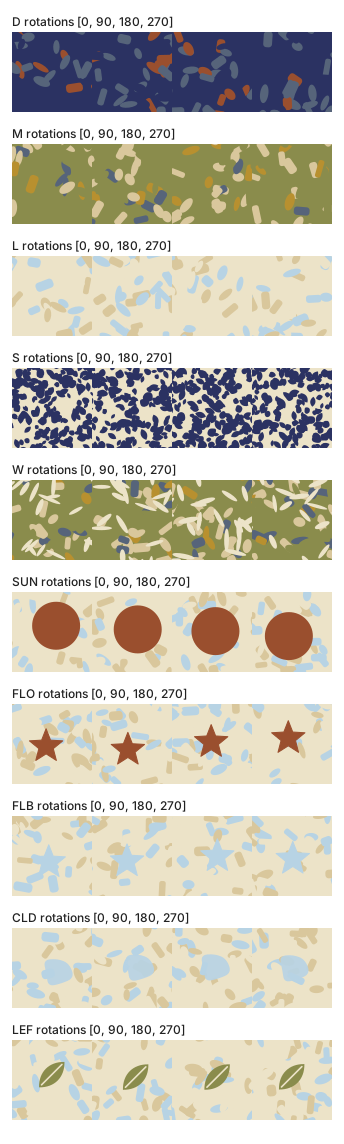
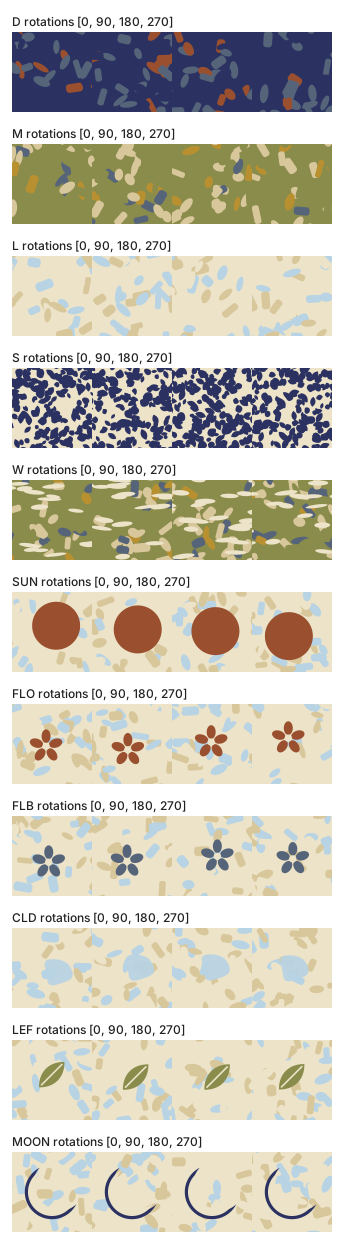
Add oriented dabs, flower and moon motifs; regenerate v4 spec
Claude-Session: https://claude.ai/code/session_01V7FKm6ieSF4AmKKv53YUgA

diff --git a/src/metapuzzle/textures.py b/src/metapuzzle/textures.py
@@ -170,16 +170,30 @@ def stipple(seed: int, size: float, palette: Sequence[str], *,
 
 def dabs(seed: int, size: float, palette: Sequence[str], *,
          count: float = 60.0, length: float = 0.10, width: float = 0.035,
-         shape: str = "mixed", background: bool = True) -> str:
-    """Short brush-like dabs at uniformly random angles.
+         shape: str = "mixed", background: bool = True,
+         angle: float | None = None, angle_jitter: float = 0.0) -> str:
+    """Short brush-like dabs at uniformly random angles, or at a common orientation.
 
     count: dabs per 100x100 units of cell area.
     length, width: nominal dab size as fractions of size (each varied 0.7-1.2x).
     shape: "rect" (rounded rectangle), "ellipse", or "mixed".
+    angle: None (default) for a random angle per dab. A number in degrees gives
+        every dab that angle, measured from the x axis, so 0 lays them horizontal.
+    angle_jitter: with ``angle``, each dab's angle is ``angle`` plus a uniform draw
+        from ``[-angle_jitter, angle_jitter]`` degrees. Needs ``angle``.
+    Positions, sizes, shapes and colours come from the same draws whatever the angle.
     """
     params = _key_args(locals())
     if shape not in ("rect", "ellipse", "mixed"):
         raise ValueError(f"shape must be 'rect', 'ellipse' or 'mixed', not {shape!r}")
+    if angle_jitter < 0.0:
+        raise ValueError("angle_jitter must be non-negative")
+    if angle is None and angle_jitter != 0.0:
+        raise ValueError("angle_jitter applies only when angle is given")
+    if angle is None:                       # keep the default key, so default output is unchanged
+        del params["angle"]
+    if angle_jitter == 0.0:
+        del params["angle_jitter"]
     base, marks = _split(palette)
     rng = random.Random(seed)
     pad = length * size
@@ -189,10 +203,14 @@ def dabs(seed: int, size: float, palette: Sequence[str], *,
         y = rng.uniform(-pad, size + pad)
         big = size * length * rng.uniform(0.7, 1.2)
         wide = min(size * width * rng.uniform(0.7, 1.2), big)
-        angle = rng.uniform(0.0, 360.0)
+        turn = rng.uniform(0.0, 360.0)      # drawn even when angle is fixed, so the stream is the same
+        if angle is None:
+            rot = turn
+        else:
+            rot = angle + (turn / 180.0 - 1.0) * angle_jitter   # turn/180 - 1 is uniform in [-1, 1)
         kind = shape if shape != "mixed" else rng.choice(("rect", "ellipse"))
         color = rng.choice(marks)
-        xf = f"translate({_f(x)} {_f(y)}) rotate({_f(angle)})"
+        xf = f"translate({_f(x)} {_f(y)}) rotate({_f(rot)})"
         if kind == "rect":
             parts.append(
                 f'<rect x="{_f(-big / 2)}" y="{_f(-wide / 2)}" width="{_f(big)}" '
@@ -743,7 +761,7 @@ def march_mask(seed: int, size: float, palette: Sequence[str] | None = None,
 
 
 MOTIF_KINDS = ("disc", "ring", "silhouette_bird", "leaf", "fish", "boat",
-               "window", "star", "drop", "hull", "fleck")
+               "window", "star", "drop", "hull", "fleck", "flower", "moon")
 _MOTIF_ROTATIONS = ("none", "any", "flip")
 _MOTIF_MARGIN = 0.08   # minimum gap between a motif and any cell edge, as a fraction of size
 
@@ -805,6 +823,23 @@ def _motif_unit(kind: str, fill: str, ink: str) -> str:
         d = "M0-1C0.35-0.45 0.7-0.1 0.7 0.3A0.7 0.7 0 0 1-0.7 0.3C-0.7-0.1-0.35-0.45 0-1Z"
         return (f'<path d="{d}" fill="{fill}"/>'
                 f'<ellipse cx="-0.3" cy="0.22" rx="0.11" ry="0.2" fill="{ink}" fill-opacity="0.8"/>')
+    if kind == "flower":
+        # Five radial elliptical petals, centred at radius 0.56 (outer tip at 0.94), and a
+        # centre disc in the base colour. The 24-degree gaps between petals read at 40 px.
+        petals = []
+        for k in range(5):
+            deg = -90.0 + k * 72.0
+            a = math.radians(deg)
+            x, y = 0.56 * math.cos(a), 0.56 * math.sin(a)
+            petals.append(f'<ellipse cx="{_f(x)}" cy="{_f(y)}" rx="0.38" ry="0.25" '
+                          f'transform="rotate({_f(deg)} {_f(x)} {_f(y)})" fill="{fill}"/>')
+        return "".join(petals) + f'<circle cx="0" cy="0" r="0.2" fill="{ink}"/>'
+    if kind == "moon":
+        # Crescent: the unit disc minus a disc of radius 0.95 centred 0.35 toward upper right.
+        # The two circles meet at P and Q (fixed constants below), so the path is two arcs.
+        # Outer arc P->Q is large and clockwise on screen; inner arc Q->P is small.
+        d = ("M0.8935 0.4490A1 1 0 1 1-0.4490-0.8935A0.95 0.95 0 0 0 0.8935 0.4490Z")
+        return f'<path d="{d}" fill="{fill}"/>'
     raise ValueError(f"kind must be one of {MOTIF_KINDS}, not {kind!r}")
 
 

diff --git a/tests/test_textures.py b/tests/test_textures.py
@@ -299,6 +299,87 @@ def test_fleck_is_a_soft_blob():
     assert 'fill-opacity="0.92"' in frag and frag.count("<path") == 1
 
 
+# ------------------------------------------------------------------ dabs angle
+
+_ROTATE = re.compile(r"rotate\((-?[\d.]+)\)")
+_TRANSLATE = re.compile(r"translate\(([-\d.]+) ([-\d.]+)\) rotate")
+
+
+def test_dabs_angle_keeps_every_rotation_within_the_jitter_range():
+    for seed in range(5):
+        frag = tx.dabs(seed, 100.0, PALETTE, count=120, shape="ellipse",
+                       angle=0.0, angle_jitter=8.0)
+        rots = [float(v) for v in _ROTATE.findall(frag)]
+        assert len(rots) > 100
+        assert all(abs(r) <= 8.0 + 1e-3 for r in rots), seed
+        assert min(rots) < -4.0 and max(rots) > 4.0, seed   # the jitter is used, not zeroed
+
+
+def test_dabs_angle_without_jitter_sets_every_rotation_exactly():
+    frag = tx.dabs(3, 100.0, PALETTE, count=40, angle=90.0)
+    assert {float(v) for v in _ROTATE.findall(frag)} == {90.0}
+
+
+def test_dabs_angle_changes_only_the_orientation():
+    # Positions, sizes and colours come from the same draws whatever the angle.
+    random_angle = tx.dabs(4, 100.0, PALETTE, count=50, shape="ellipse")
+    fixed = tx.dabs(4, 100.0, PALETTE, count=50, shape="ellipse", angle=0.0, angle_jitter=8.0)
+    assert _TRANSLATE.findall(random_angle) == _TRANSLATE.findall(fixed)
+    sizes = re.compile(r'(rx|ry|fill)="([^"]+)"')
+    assert sizes.findall(random_angle) == sizes.findall(fixed)
+
+
+def test_dabs_default_angle_is_still_random():
+    rots = [float(v) for v in _ROTATE.findall(tx.dabs(5, 100.0, PALETTE, count=200))]
+    assert min(rots) < 45.0 and max(rots) > 315.0
+
+
+def test_dabs_angle_arguments_are_checked():
+    with pytest.raises(ValueError):
+        tx.dabs(1, 100.0, PALETTE, angle=0.0, angle_jitter=-1.0)
+    with pytest.raises(ValueError):
+        tx.dabs(1, 100.0, PALETTE, angle_jitter=5.0)
+
+
+# ------------------------------------------------------------------ flower and moon
+
+def _is_color(rgb, color: str, tol: int = 2) -> bool:
+    return max(abs(a - b) for a, b in zip(rgb, tx._hex_to_rgb(color))) <= tol
+
+
+def _unit_px(px, u: float, v: float, size: int = 100, radius_px: float = 25.0):
+    """Pixel at unit coordinates (u, v) from the centre, for a motif at scale 0.5 and jitter 0."""
+    return px[int(size / 2 + u * radius_px), int(size / 2 + v * radius_px)]
+
+
+def test_flower_has_a_base_coloured_centre_and_gaps_between_petals():
+    frag = tx.motif(1, 100.0, PALETTE, kind="flower", scale=0.5, jitter=0.0)
+    px = _render_cell(frag, 100).load()
+    assert _is_color(_unit_px(px, 0.0, 0.0), PALETTE[0])            # centre disc
+    assert _is_color(_unit_px(px, 0.0, -0.56), PALETTE[1])          # top petal
+    # Radius 0.7, midway between the top and upper-right petals: a gap.
+    assert _is_color(_unit_px(px, 0.7 * math.cos(math.radians(-54)),
+                              0.7 * math.sin(math.radians(-54))), PALETTE[0])
+
+
+def test_moon_is_a_crescent_with_its_hollow_toward_the_upper_right():
+    frag = tx.motif(1, 100.0, PALETTE, kind="moon", scale=0.5, jitter=0.0)
+    px = _render_cell(frag, 100).load()
+    assert _is_color(_unit_px(px, -0.566, 0.566), PALETTE[1])       # thick lower-left arm
+    assert _is_color(_unit_px(px, 0.424, -0.424), PALETTE[0])       # inside the cut-out disc
+    marks = sum(1 for x in range(100) for y in range(100) if _is_color(px[x, y], PALETTE[1]))
+    assert 0.15 < marks / (math.pi * 25.0 ** 2) < 0.30               # about 22% of the disc
+
+
+@pytest.mark.parametrize("kind", ["flower", "moon"])
+def test_flower_and_moon_render_deterministically_inside_the_margin(kind):
+    for seed in (1, 2, 3):
+        frag = tx.motif(seed, 100.0, PALETTE, kind=kind, scale=0.68, rotation="any")
+        assert tx.motif(seed, 100.0, PALETTE, kind=kind, scale=0.68, rotation="any") == frag
+        ET.fromstring(tx.cell_svg(frag, 100.0))
+        assert _dirty_pixels(frag, 100, EDGES) == [], (kind, seed)
+
+
 # ------------------------------------------------------------------ blotch inset
 
 INSET = 0.08

diff --git a/experiments/005-hybrid-tones/gen_classes_v4.py b/experiments/005-hybrid-tones/gen_classes_v4.py
@@ -2,7 +2,7 @@
 
 Tiers D, M, L are copied from classes.json. New: S (navy chips on cream), W (M with
 cream lenses). Every ordered pair of D/M/L/W gets four march_mask transitions
-(s, c, i, p); the D/L pair gets two dots. Five motif classes sit on L.
+(s, c, i, p); the D/L pair gets two dots. Six motif classes sit on L.
 
 The transition convention matches gallery/march-demo.py: the own tier is the base
 (background included), the neighbour tier is the mass, clipped by a named march_mask.
@@ -39,16 +39,22 @@ PATTERNS = {"s": "straight", "c": "corner", "i": "corner_in", "p": "cap"}
 
 # Tuned by measured alpha coverage over 8 seeds (see measure_coverage).
 S_CHIPS = {"kinds": ["leaf", "blob"], "count": 200, "scale": 0.06}        # ~55%
-W_LENSES = {"shape": "ellipse", "count": 34, "length": 0.25, "width": 0.06}  # ~15%
+# Lenses lie horizontal: angle 0, each within 8 degrees.
+W_LENSES = {"shape": "ellipse", "count": 34, "length": 0.25, "width": 0.06,
+            "angle": 0.0, "angle_jitter": 8.0}                                # ~15%
 
-# kind, scale, colour for each motif class on L. "star" is the closest kind to a flower.
+# kind, scale, colour for each motif class on L.
 MOTIFS = {
     "SUN": ("disc", 0.6, "rust"),
-    "FLO": ("star", 0.45, "rust"),
-    "FLB": ("star", 0.45, "pale_blue"),
+    "FLO": ("flower", 0.45, "rust"),
+    "FLB": ("flower", 0.45, "slate"),
     "CLD": ("fleck", 0.5, "pale_blue"),
     "LEF": ("leaf", 0.45, "olive"),
+    "MOON": ("moon", 0.6, "cream"),
 }
+# Motifs drawn with a thin outline: a same-shape layer in this colour, a little larger,
+# goes under the fill. Both layers use jitter 0, so their centres match.
+OUTLINED = {"MOON": ("indigo", 0.08)}
 
 
 def _cls(layers: list, masks: dict | None = None) -> dict:
@@ -101,17 +107,30 @@ def build(src: dict) -> dict:
         classes[f"{nbr}{own}d"] = _cls(copy.deepcopy(tiers[nbr]) + dot_layers,
                                        masks={"dot": _march("dot")})
 
+    def motif_layer(kind: str, scale: float, color: str, jitter: float | None = None) -> dict:
+        # palette[2] is the halo colour; the motif checks it exists even with no halo.
+        params = {"kind": kind, "scale": scale}
+        if jitter is not None:
+            params["jitter"] = jitter
+        return {"primitive": "motif", "palette": ["cream", color, "cream"],
+                "background": False, "params": params}
+
     for name, (kind, scale, color) in MOTIFS.items():
-        classes[name] = _cls(copy.deepcopy(tiers["L"]) + [
-            # palette[2] is the halo colour; the motif checks it exists even with no halo.
-            {"primitive": "motif", "palette": ["cream", color, "cream"], "background": False,
-             "params": {"kind": kind, "scale": scale}}])
+        layers = copy.deepcopy(tiers["L"])
+        if name in OUTLINED:
+            outline, grow = OUTLINED[name]
+            layers.append(motif_layer(kind, round(scale + grow, 3), outline, jitter=0.0))
+            layers.append(motif_layer(kind, scale, color, jitter=0.0))
+        else:
+            layers.append(motif_layer(kind, scale, color))
+        classes[name] = _cls(layers)
 
     return {
         "_note": ("v4 (005). Plain D/M/L from v3; S = navy chips on cream; W = M plus "
                   "cream lenses. Transitions <own><nbr><s|c|i|p>: own base, nbr mass under "
                   "a march_mask named 'edge'; canonical orientation puts nbr on top. Dots "
-                  "<nbr><own>d for the D/L pair. Motifs SUN FLO FLB CLD LEF sit on L."),
+                  "<nbr><own>d for the D/L pair. Motifs SUN FLO FLB CLD LEF MOON sit on L; "
+                  "MOON has an indigo outline."),
         "ref_size": src["ref_size"],
         "palette": copy.deepcopy(src["palette"]),
         "classes": classes,

diff --git a/experiments/005-hybrid-tones/classes-v4-NOTES.md b/experiments/005-hybrid-tones/classes-v4-NOTES.md
@@ -13,3 +13,6 @@
 - No motif is a flower; FLO and FLB use the five-point `star`.
 - CLD uses the `fleck` kind, not a blob.
 - Chips do not cross cell cuts; only the boundary joins.
+
+
+Update: dabs now accept an angle, so W lenses are horizontal; FLO/FLB use the new flower motif kind; a MOON crescent motif was added.
